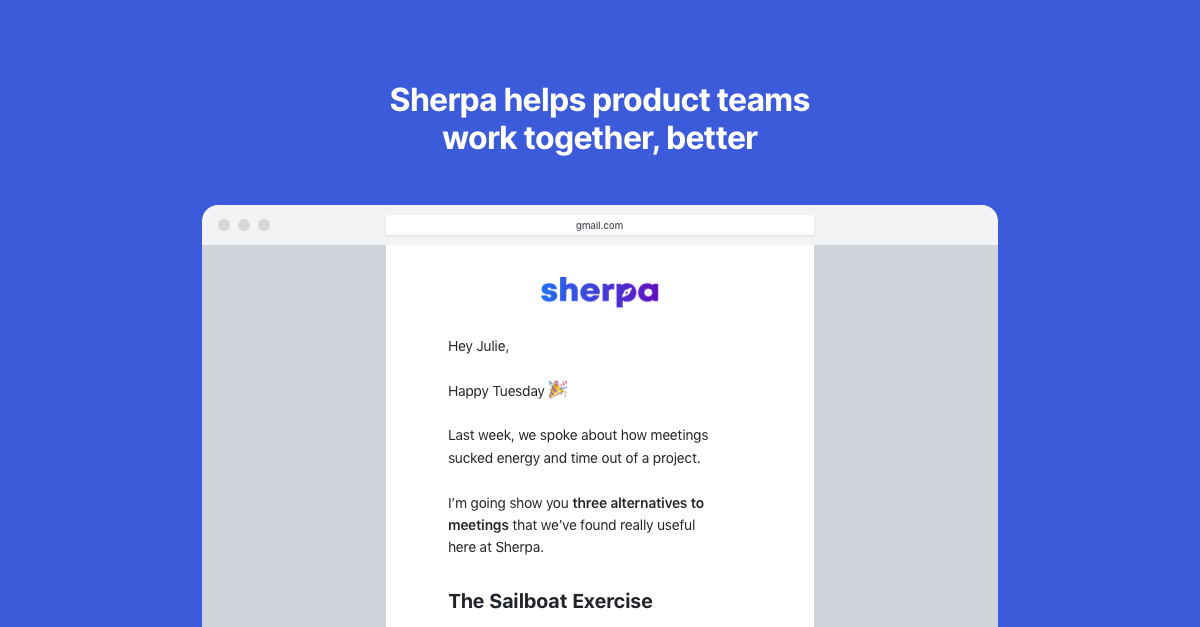
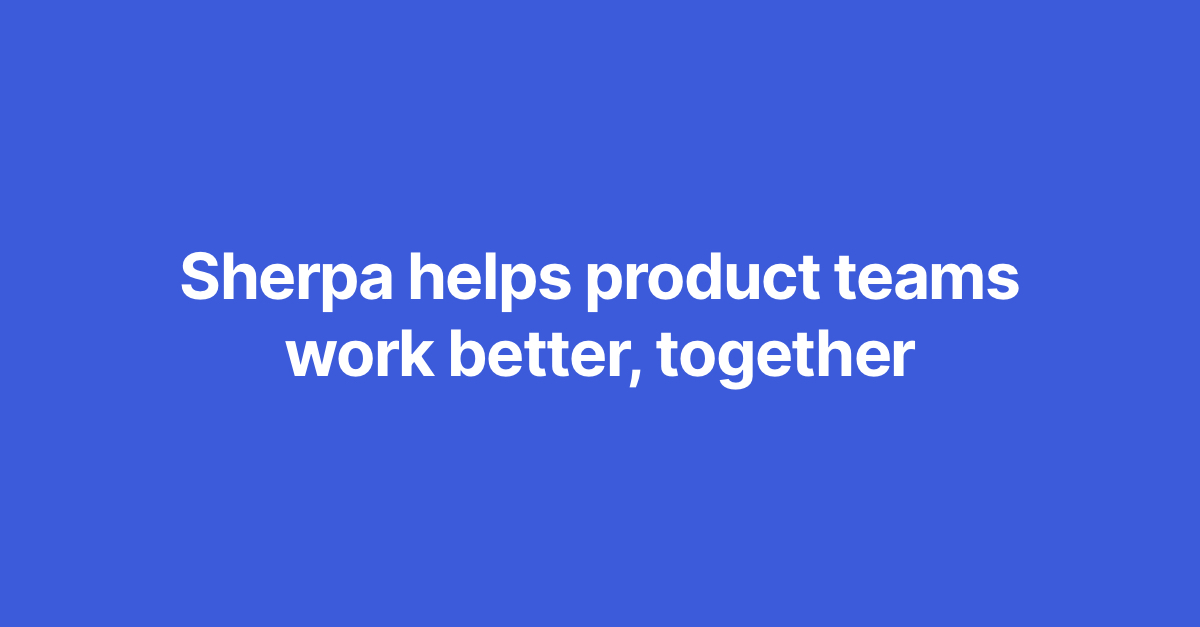
Added copy, new screenshot

diff --git a/static/style.css b/static/style.css
@@ -354,26 +354,10 @@ input[type="text"] {
 }
 .screenshot picture img {
   margin:0 auto;
-  box-shadow:0 0 100px rgba(0,0,0,0.08);
-  border-radius:1rem;
-
-}
-.screenshot picture .screenshot-decor {
-  position:absolute;
-  top:0;
-  left:0;
-  width:100%;
-  height:100%;
-  display:grid;
-  justify-content: center;
-  z-index:-1;  
-}
-.screenshot picture .screenshot-decor svg {
-  max-width:100%;
-  height:auto;
 }
 .features,
-.cta {
+.cta,
+.benefits {
   background-color:var(--color-bg);
   text-align:center;
 }
@@ -415,17 +399,18 @@ input[type="text"] {
 .cta h3 {
   line-height: 1.5;
 }
-.about-nuom .image-text-block {
+.image-text-block {
   display:flex;
   justify-content: space-between;
   align-items: center;
   flex-flow:wrap;
 }
-.about-nuom .image-text-block article {
+.image-text-block article {
   max-width:48ch;    
+  text-align:left;
 }
 @media(min-width:48rem) {
-  .about-nuom .image-text-block {
+  .image-text-block {
     flex-flow:row nowrap;
   }
   .about-nuom .image-text-block article {
@@ -434,31 +419,24 @@ input[type="text"] {
   }
   
 }
-.about-nuom .image-text-block picture {
+.image-text-block picture {
   margin-bottom:var(--p-5);
 }
-.about-nuom picture {
-  position: relative;
-  display:block;
-  margin:0 auto;
-}
-.about-nuom picture img {
+.image-text-block picture img {
   margin:0 auto;
   box-shadow:0 0 100px rgba(0,0,0,0.08);
   border-radius:1rem;
 
 }
-.about-nuom picture .team-decor {
-  position:absolute;
-  top:-10%;
-  left:0;
-  width:100%;
-  height:100%;
-  display:grid;
-  justify-content: center;
-  z-index:-1;  
+.image-text-block ul {
+  margin:1rem 0;
+  padding-left:1rem;
 }
-.about-nuom picture .team-decor svg {
-  max-width:100%;
-  height:auto;
+.image-text-block ul li {  
+  padding:.5rem 0;
+}
+.image-text-block ul li:before {
+  position: relative;
+  content: '✓';
+  left:-1rem;
 }

diff --git a/src/css/components/sections.css b/src/css/components/sections.css
@@ -5,27 +5,11 @@
 }
 .screenshot picture img {
   margin:0 auto;
-  box-shadow:0 0 100px rgba(0,0,0,0.08);
-  border-radius:1rem;
-
-}
-.screenshot picture .screenshot-decor {
-  position:absolute;
-  top:0;
-  left:0;
-  width:100%;
-  height:100%;
-  display:grid;
-  justify-content: center;
-  z-index:-1;  
-}
-.screenshot picture .screenshot-decor svg {
-  max-width:100%;
-  height:auto;
 }
 
 .features,
-.cta {
+.cta,
+.benefits {
   background-color:var(--color-bg);
   text-align:center;
 }
@@ -71,17 +55,18 @@
   line-height: 1.5;
 }
 
-.about-nuom .image-text-block {
+.image-text-block {
   display:flex;
   justify-content: space-between;
   align-items: center;
   flex-flow:wrap;
 }
-.about-nuom .image-text-block article {
+.image-text-block article {
   max-width:48ch;    
+  text-align:left;
 }
 @media(min-width:48rem) {
-  .about-nuom .image-text-block {
+  .image-text-block {
     flex-flow:row nowrap;
   }
   .about-nuom .image-text-block article {
@@ -90,31 +75,25 @@
   }
   
 }
-.about-nuom .image-text-block picture {
+.image-text-block picture {
   margin-bottom:var(--p-5);
 }
-.about-nuom picture {
-  position: relative;
-  display:block;
-  margin:0 auto;
-}
-.about-nuom picture img {
+
+.image-text-block picture img {
   margin:0 auto;
   box-shadow:0 0 100px rgba(0,0,0,0.08);
   border-radius:1rem;
 
 }
-.about-nuom picture .team-decor {
-  position:absolute;
-  top:-10%;
-  left:0;
-  width:100%;
-  height:100%;
-  display:grid;
-  justify-content: center;
-  z-index:-1;  
+.image-text-block ul {
+  margin:1rem 0;
+  padding-left:1rem;
 }
-.about-nuom picture .team-decor svg {
-  max-width:100%;
-  height:auto;
+.image-text-block ul li {  
+  padding:.5rem 0;
+}
+.image-text-block ul li:before {
+  position: relative;
+  content: '✓';
+  left:-1rem;
 }
